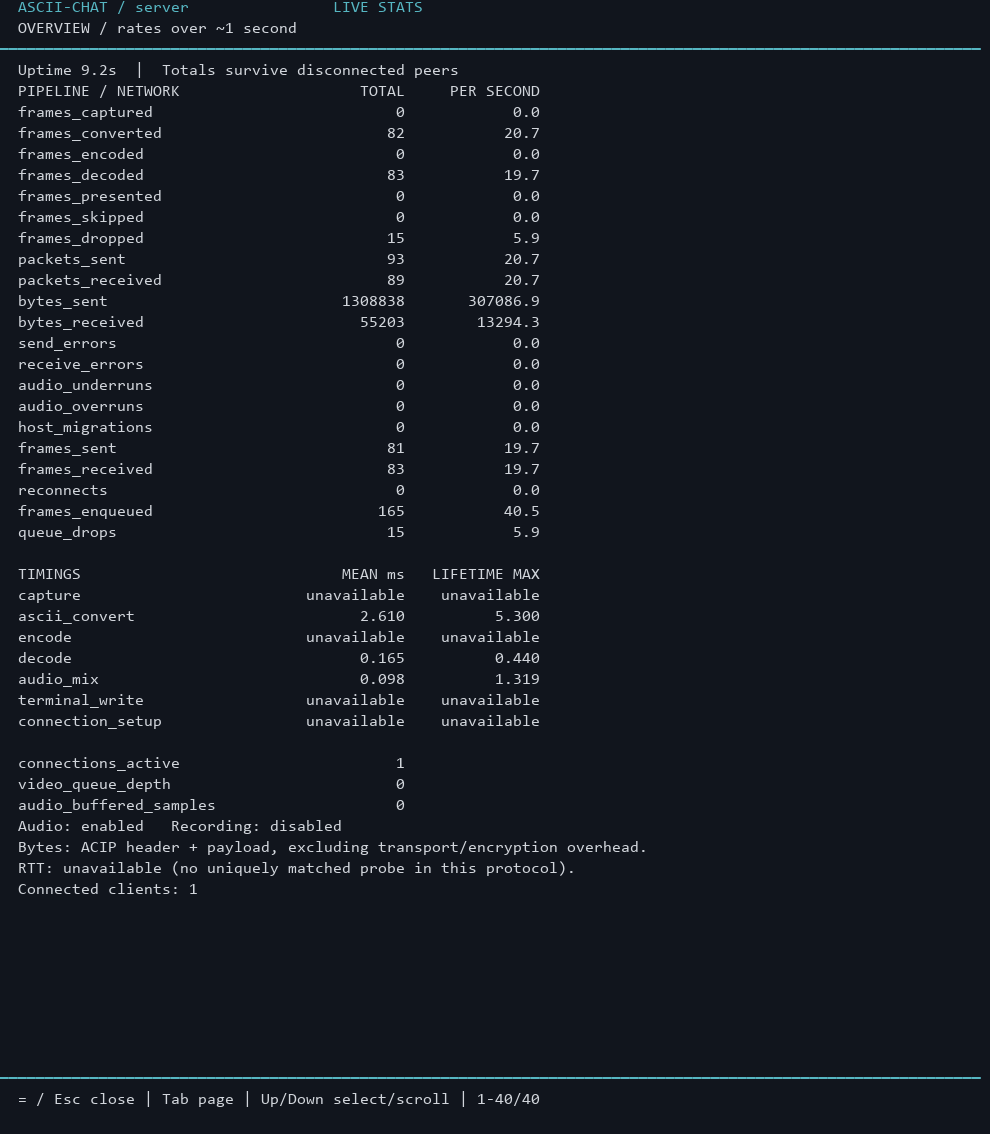
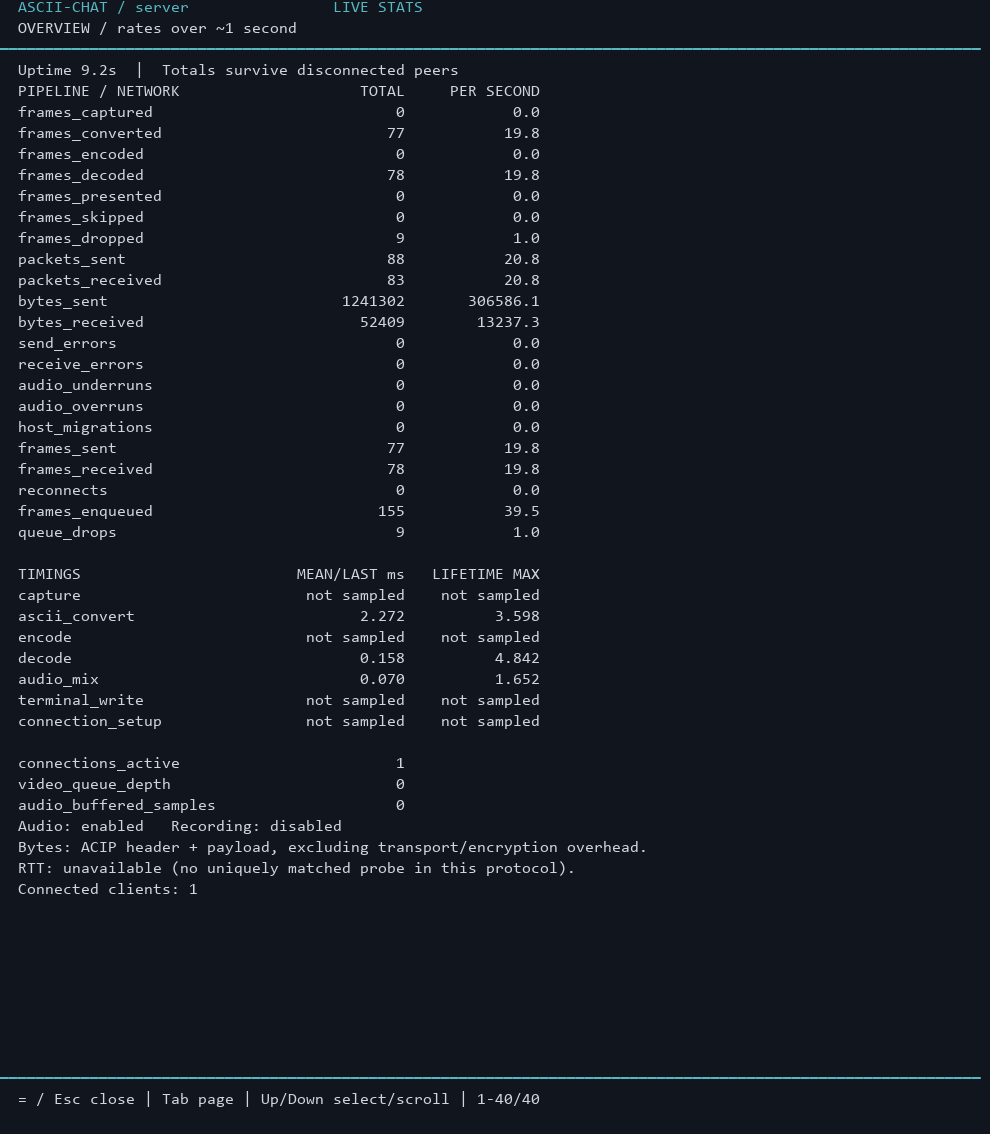
fix(stats): distinguish idle timings and retain connection duration

diff --git a/lib/stats/runtime.c b/lib/stats/runtime.c
@@ -209,18 +209,24 @@ static void build_view(stats_view_t *view, stats_snapshot_t *snapshot, stats_rat
                        "warming up");
     }
     stats_view_add(view, "");
-    stats_view_add(view, "%-28s %14s %14s", "TIMINGS", "MEAN ms", "LIFETIME MAX");
+    stats_view_add(view, "%-28s %14s %14s", "TIMINGS", "MEAN/LAST ms", "LIFETIME MAX");
     for (int i = 0; i < STATS_DURATION_COUNT; ++i) {
       if (!snapshot->capabilities.durations[i])
         continue;
-      if (rates->duration_valid[i])
+      if (i == STATS_DURATION_ASCII_CONVERT && strcmp(g_mode, "client") == 0 &&
+          !snapshot->durations[i].observations)
+        stats_view_add(view, "%-28s %14s %14s", "ascii_convert", "n/a (server)", "n/a");
+      else if (i == STATS_DURATION_CONNECTION_SETUP && snapshot->durations[i].observations)
+        stats_view_add(view, "%-28s %14.3f %14.3f", "connection_setup (last)",
+                       (double)snapshot->durations[i].last_ns / 1e6, (double)snapshot->durations[i].max_ns / 1e6);
+      else if (rates->duration_valid[i])
         stats_view_add(view, "%-28s %14.3f %14.3f", stats_duration_descriptor(i)->name,
                        rates->duration_mean_ns[i] / 1e6, (double)snapshot->durations[i].max_ns / 1e6);
       else if (snapshot->durations[i].observations)
-        stats_view_add(view, "%-28s %14s %14.3f", stats_duration_descriptor(i)->name, "unavailable",
+        stats_view_add(view, "%-28s %14s %14.3f", stats_duration_descriptor(i)->name, "idle",
                        (double)snapshot->durations[i].max_ns / 1e6);
       else
-        stats_view_add(view, "%-28s %14s %14s", stats_duration_descriptor(i)->name, "unavailable", "unavailable");
+        stats_view_add(view, "%-28s %14s %14s", stats_duration_descriptor(i)->name, "not sampled", "not sampled");
     }
     stats_view_add(view, "");
     for (int i = 0; i < STATS_GAUGE_COUNT; ++i)

diff --git a/tests/unit/stats/stats_test.c b/tests/unit/stats/stats_test.c
@@ -248,6 +248,29 @@ Test(stats, concurrent_recording_and_snapshots, .timeout = 30) {
   stats_scope_destroy(context.scope);
 }
 
+Test(stats, last_duration_survives_idle_and_tracks_latest_attempt) {
+  stats_scope_t *scope = make_scope();
+  stats_duration_record(scope, STATS_DURATION_CAPTURE, 900);
+  stats_duration_record(scope, STATS_DURATION_CAPTURE, 200);
+  stats_snapshot_t snapshot;
+  cr_assert_eq(stats_scope_snapshot(scope, &snapshot), ASCIICHAT_OK);
+  cr_assert_eq(snapshot.durations[STATS_DURATION_CAPTURE].last_ns, 200);
+  cr_assert_eq(snapshot.durations[STATS_DURATION_CAPTURE].max_ns, 900);
+  stats_sampler_t *sampler = make_sampler(100, 25);
+  stats_rates_t rates;
+  snapshot.sampled_ns = 100;
+  stats_sampler_update(sampler, &snapshot, &rates);
+  snapshot.sampled_ns = 300;
+  stats_sampler_update(sampler, &snapshot, &rates);
+  cr_assert_not(rates.duration_valid[STATS_DURATION_CAPTURE]);
+  cr_assert_eq(snapshot.durations[STATS_DURATION_CAPTURE].last_ns, 200);
+  stats_duration_record(scope, STATS_DURATION_CAPTURE, 0);
+  stats_scope_snapshot(scope, &snapshot);
+  cr_assert_eq(snapshot.durations[STATS_DURATION_CAPTURE].last_ns, 0);
+  stats_sampler_destroy(sampler);
+  stats_scope_destroy(scope);
+}
+
 Test(stats, descriptors) {
   for (int i = 0; i < STATS_COUNTER_COUNT; ++i) {
     const stats_descriptor_t *d = stats_counter_descriptor((stats_counter_id_t)i);

diff --git a/include/ascii-chat/stats/stats.h b/include/ascii-chat/stats/stats.h
@@ -90,6 +90,7 @@ typedef struct {
   uint64_t total_ns;
   uint64_t min_ns;
   uint64_t max_ns;
+  uint64_t last_ns;
 } stats_duration_snapshot_t;
 
 typedef struct {
@@ -120,7 +121,7 @@ void stats_duration_record(stats_scope_t *scope, stats_duration_id_t id, uint64_
 
 /** Owned value copy. Concurrent snapshots are serialized. Each duration tuple is
  * coherent, but independent metrics need not describe one atomic application event.
- * Empty durations have observations/min/max/total equal to zero.
+ * Empty durations have observations/min/max/last/total equal to zero.
  */
 asciichat_error_t stats_scope_snapshot(const stats_scope_t *scope, stats_snapshot_t *out);
 

diff --git a/tests/integration/stats_tui.py b/tests/integration/stats_tui.py
@@ -212,6 +212,9 @@ def main():
             lambda: metric(client, "frames_received")
             and metric(client, "frames_received")[0] > 0
         )
+        assert re.search(r"ascii_convert\s+n/a \(server\)", client.text()), client.text()
+        assert re.search(r"terminal_write\s+idle", client.text()), client.text()
+        assert re.search(r"connection_setup \(last\)\s+\d+\.\d+", client.text()), client.text()
         client.capture("client-overview")
         server.open()
         wait(

diff --git a/lib/stats/stats.c b/lib/stats/stats.c
@@ -77,6 +77,7 @@ void stats_duration_record(stats_scope_t *scope, stats_duration_id_t id, uint64_
   if (mutex_lock(&scope->duration_mutex) != 0)
     return;
   stats_duration_snapshot_t *duration = &scope->durations[id];
+  duration->last_ns = elapsed_ns;
   if (!duration->observations || elapsed_ns < duration->min_ns)
     duration->min_ns = elapsed_ns;
   if (elapsed_ns > duration->max_ns)

diff --git a/docs/stats.md b/docs/stats.md
@@ -144,9 +144,12 @@ Consequently presented FPS goes to zero while stats covers the media screen.
 Connection details retain at most 64 transport rows; process totals include every
 transport, including disconnected or undisplayed peers. Mode tables are bounded
 by the shared 128-line view. Snapshots are value copies; table providers copy
-under their owners' locks and must unregister before teardown. An unmeasured or
-inactive timing is unavailable rather than a fabricated zero. RTT is explicitly
-unavailable: the current heartbeat protocol does not provide uniquely matched
+under their owners' locks and must unregister before teardown. The TUI labels
+timings with no observations as `not sampled`, and timings with
+no recent observations as `idle`. Client ASCII conversion is `n/a (server)`
+until measured locally. Connection setup displays the last attempt duration,
+retained across idle windows; its lifetime maximum remains a separate column.
+RTT is explicitly unavailable: the current heartbeat protocol does not provide uniquely matched
 round-trip probes. Disabled audio and recording are identified on the overview.
 
 `frames_enqueued` counts successful queue submissions, including separate fanout
@@ -222,7 +225,7 @@ by `stats_tui.py`, using `render_stats_capture.py`:
 | Discovery | [Capture](images/stats/discovery-overview.png) | |
 | ACDS | [Capture](images/stats/acds-overview.png) | [Session table](images/stats/acds-sessions.png) |
 
-The Linux debug build with ASan/UBSan passed all 12 statistics tests and the
+The Linux debug build with ASan/UBSan passed all 13 statistics tests and the
 terminal integration scenario, including real TCP, WebSocket, and local WebRTC
 media. Native Windows ConPTY checks passed all five modes and prompt input.
 A Linux release build also passed live mirror collection and redirected server
